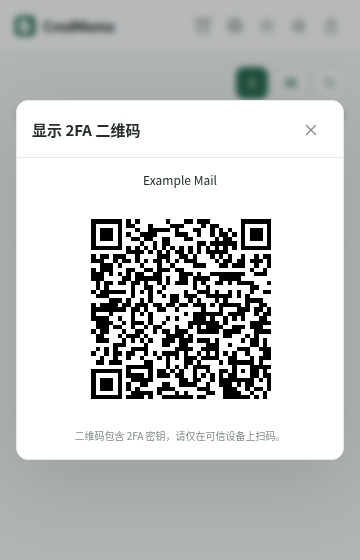
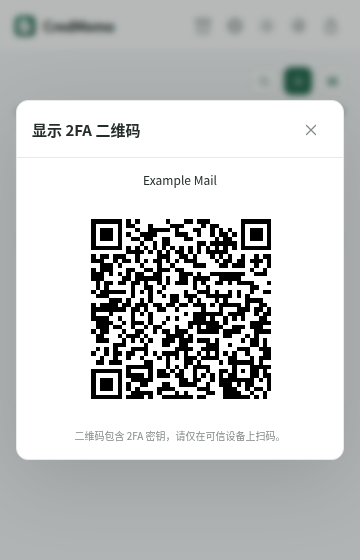
feat：合并搜索控件并精简验证码设置

Changed region(s): [[0.6417, 0.0911, 0.8861, 0.1821], [0.9167, 0.1214, 0.9472, 0.1518]]

diff --git a/extension/src/app.js b/extension/src/app.js
@@ -162,9 +162,9 @@ import { moveVisible } from './list-order.ts';
       <input type="hidden" data-field="label" value="${escape(item.label||'')}"></div>`;
   }
   function totpFields(item={},primary=false) {
-    const n=++itemSequence,type=item.type||'totp',event=counterBased(type),custom=event||(item.digits??6)!==6||(item.period??30)!==30||(item.algorithm??'SHA1')!=='SHA1';
-    return `<div class="form-item token-item${primary?' primary-item':''}">${primary?'':iconButton('close','remove-item','removeItem','','remove-item')}<div class="token-heading"><label class="field-label" for="token-secret-${n}">${escape(t('totpSecret'))}</label><select class="select token-type" data-field="type" aria-label="${escape(t('otpType'))}">${OTP_TYPES.map(value=>`<option value="${value}" ${type===value?'selected':''}>${escape(t('otp_'+value))}</option>`).join('')}</select>${iconButton('settings','token-options','advanced')}</div><div class="input-wrap"><input id="token-secret-${n}" data-field="secret" type="password" value="${escape(item.secret||'')}" maxlength="4096" autocomplete="off" placeholder="${escape(t(type==='hex'||type==='hhex'?'hexSecretPlaceholder':'totpSecretPlaceholder'))}">${iconButton('scan','scan-entry','scanSelection')}${iconButton('eye','toggle-password','showPassword',`data-target="token-secret-${n}"`)}</div>
-      <input type="hidden" data-field="label" value="${escape(item.label||'')}"><details class="advanced-options" ${custom?'':'hidden'} ${event?'open':''}><summary>${escape(t('advanced'))}</summary><div class="token-options"><label class="digits-option">${escape(t('digits'))}<input class="input" data-field="digits" type="number" required min="1" max="10" step="1" value="${item.digits??(type==='steam'?5:type==='battle'?8:6)}" ${['steam','battle'].includes(type)?'readonly':''}></label><label class="period-option" ${event?'hidden':''}>${escape(t('period'))}<input class="input" data-field="period" type="number" required ${event?'disabled':''} min="1" step="1" value="${item.period??30}"></label><label class="counter-option" ${event?'':'hidden'}>${escape(t('counter'))}<input class="input" data-field="counter" type="number" required ${event?'':'disabled'} min="0" max="9007199254740991" step="1" value="${item.counter??0}"></label><label>${escape(t('algorithm'))}<select class="select" data-field="algorithm">${OTP_ALGORITHMS.map(value=>`<option value="${value}" ${value===(item.algorithm||'SHA1')?'selected':''}>${value.replace('GOST3411_2012_','GOST ')}</option>`).join('')}</select></label></div></details></div>`;
+    const n=++itemSequence,type=item.type||'totp',event=counterBased(type);
+    return `<div class="form-item token-item${primary?' primary-item':''}">${primary?'':iconButton('close','remove-item','removeItem','','remove-item')}<div class="token-heading"><label class="field-label" for="token-secret-${n}">${escape(t('totpSecret'))}</label>${iconButton('settings','token-options','advanced',`aria-expanded="false" aria-controls="token-options-${n}"`)}</div><div class="input-wrap"><input id="token-secret-${n}" data-field="secret" type="password" value="${escape(item.secret||'')}" maxlength="4096" autocomplete="off" placeholder="${escape(t(type==='hex'||type==='hhex'?'hexSecretPlaceholder':'totpSecretPlaceholder'))}">${iconButton('scan','scan-entry','scanSelection')}${iconButton('eye','toggle-password','showPassword',`data-target="token-secret-${n}"`)}</div>
+      <input type="hidden" data-field="label" value="${escape(item.label||'')}"><div id="token-options-${n}" class="advanced-options" hidden><div class="token-type-field"><label for="token-type-${n}">${escape(t('otpType'))}</label><select id="token-type-${n}" class="select token-type" data-field="type">${OTP_TYPES.map(value=>`<option value="${value}" ${type===value?'selected':''}>${escape(t('otp_'+value))}</option>`).join('')}</select></div><div class="token-options"><label class="digits-option">${escape(t('digits'))}<input class="input" data-field="digits" type="number" required min="1" max="10" step="1" value="${item.digits??(type==='steam'?5:type==='battle'?8:6)}" ${['steam','battle'].includes(type)?'readonly':''}></label><label class="period-option" ${event?'hidden':''}>${escape(t('period'))}<input class="input" data-field="period" type="number" required ${event?'disabled':''} min="1" step="1" value="${item.period??30}"></label><label class="counter-option" ${event?'':'hidden'}>${escape(t('counter'))}<input class="input" data-field="counter" type="number" required ${event?'':'disabled'} min="0" max="9007199254740991" step="1" value="${item.counter??0}"></label><label>${escape(t('algorithm'))}<select class="select" data-field="algorithm">${OTP_ALGORITHMS.map(value=>`<option value="${value}" ${value===(item.algorithm||'SHA1')?'selected':''}>${value.replace('GOST3411_2012_','GOST ')}</option>`).join('')}</select></label></div></div></div>`;
   }
   async function editEntry(id,draft=null) {
     const entry=draft?{...draft.entry,version:draft.version}:id?await request('get',{id}):null;
@@ -245,7 +245,7 @@ import { moveVisible } from './list-order.ts';
     const {action,id,index='0'}=button.dataset;
     if(action==='search-toggle')return searchPanel($('#search-panel').hidden);
     if(action==='search-close')return searchPanel(false);
-    if(action==='token-options'){const details=$('.advanced-options',button.closest('.token-item'));details.hidden=false;details.open=!details.open;return;}
+    if(action==='token-options'){const panel=$('.advanced-options',button.closest('.token-item'));panel.hidden=!panel.hidden;button.setAttribute('aria-expanded',String(!panel.hidden));if(!panel.hidden){$('.token-type',panel).focus();panel.scrollIntoView({block:'nearest'});}return;}
     if(action==='advance'){const token=state.codes[id]?.[Number(index)];if(!token)return;button.disabled=true;try{await request('advance',{id,index:Number(index),counter:token.counter,version:state.entries.find(entry=>entry.id===id)?.version});await loadEntries();toast(t('counterAdvanced'));}catch(error){await loadEntries();throw error;}finally{if(button.isConnected)button.disabled=false;}return;}
     if(action==='scan-page'||action==='scan-entry'){
       const form=action==='scan-entry'?$('#entry-form'):null;
@@ -311,7 +311,7 @@ import { moveVisible } from './list-order.ts';
   });
   document.addEventListener('change',async event=>{
     const input=event.target;
-    if(input.matches('.token-type')){const row=input.closest('.token-item'),type=input.value,event=counterBased(type),digits=$('[data-field="digits"]',row);$('.period-option',row).hidden=event;$('.counter-option',row).hidden=!event;$('[data-field=period]',row).disabled=event;$('[data-field=counter]',row).disabled=!event;digits.readOnly=['steam','battle'].includes(type);if(type==='steam')digits.value=5;else if(type==='battle')digits.value=8;else if(digits.value==='5')digits.value=6;$('[data-field="secret"]',row).placeholder=t(['hex','hhex'].includes(type)?'hexSecretPlaceholder':'totpSecretPlaceholder');if(event){const details=$('.advanced-options',row);details.hidden=false;details.open=true;}return;}
+    if(input.matches('.token-type')){const row=input.closest('.token-item'),type=input.value,event=counterBased(type),digits=$('[data-field="digits"]',row);$('.period-option',row).hidden=event;$('.counter-option',row).hidden=!event;$('[data-field=period]',row).disabled=event;$('[data-field=counter]',row).disabled=!event;digits.readOnly=['steam','battle'].includes(type);if(type==='steam')digits.value=5;else if(type==='battle')digits.value=8;else if(digits.value==='5')digits.value=6;$('[data-field="secret"]',row).placeholder=t(['hex','hhex'].includes(type)?'hexSecretPlaceholder':'totpSecretPlaceholder');return;}
     if(input.id==='theme-select'){theme=input.value;localStorage.setItem('credmemo-theme',theme);applyTheme();return;}
     if(input.id==='language-select'){setLanguage(input.value);settings();return;}
     if(input.id==='import-file'){

diff --git a/extension/public/static/extension.css b/extension/public/static/extension.css
@@ -23,16 +23,18 @@ html[data-surface="popup"] .topbar-actions{gap:2px}
 html[data-surface="popup"] .topbar-actions .icon-button{min-width:29px}
 html[data-surface="popup"] .main-content{padding:14px;width:100%;flex:1;min-height:0;overflow-y:auto}
 html[data-surface="popup"] .page-heading{flex-wrap:nowrap;align-items:center;justify-content:flex-end;gap:8px;margin-bottom:10px}
-html[data-surface="popup"] .heading-actions{width:auto;display:flex;gap:7px}
-html[data-surface="popup"] .heading-actions .button{width:32px;height:32px;min-height:32px;padding:7px;border-radius:8px;flex:none;order:0}
-html[data-surface="popup"] .heading-actions svg{width:14px;height:14px}
+html[data-surface="popup"] .heading-actions{width:100%;display:flex;align-items:center;justify-content:flex-end;gap:6px}
+html[data-surface="popup"] .heading-actions .button{width:28px;height:28px;min-height:28px;padding:6px;border-radius:7px;flex:none;order:0}
+html[data-surface="popup"] .heading-actions svg{width:13px;height:13px}
 .utility-button{color:var(--green);background:var(--surface);border:1px solid var(--green-line)}
 .utility-button:hover{background:var(--green-wash)}
-html[data-surface="popup"] .search-box{padding:4px 8px 4px 10px;max-width:none;min-width:0;margin-bottom:10px;border-radius:8px}
-html[data-surface="popup"] .search-box .icon-button{width:25px;min-width:25px;height:25px}
-html[data-surface="popup"] .search-box .icon-button svg{width:14px;height:14px}
-.search-toggle[aria-expanded="true"]{background:var(--green-wash);border-color:var(--green)}
-.search-box:focus-within{border-color:var(--green)}
+html[data-surface="popup"] .search-control{display:flex;align-items:center;min-width:28px;height:28px;border-radius:7px}
+html[data-surface="popup"] .search-control:has(.search-box:not([hidden])){flex:1;min-width:0;background:var(--surface);box-shadow:inset 0 0 0 1px var(--green-line)}
+html[data-surface="popup"] .search-control:has(.search-box:not([hidden])):focus-within{box-shadow:inset 0 0 0 1px var(--green)}
+html[data-surface="popup"] .search-toggle[aria-expanded="true"]{border:0;background:transparent;border-radius:7px 0 0 7px}
+html[data-surface="popup"] .search-box{flex:1;height:28px;padding:0 3px 0 0;max-width:none;min-width:0;margin:0;gap:4px;border:0;border-radius:0;background:transparent}
+html[data-surface="popup"] .search-box .icon-button{width:22px;min-width:22px;height:22px}
+html[data-surface="popup"] .search-box .icon-button svg{width:12px;height:12px}
 html[data-surface="popup"] .search-box input{font-size:11px;flex:1}
 html[data-surface="popup"] .results-line{margin:0 0 10px;font-size:9px;gap:8px}
 html[data-surface="popup"] .results-line>[data-i18n]{font-size:9px}
@@ -136,9 +138,14 @@ html[data-surface="popup"] .entry-card-top>.drag-handle{min-width:16px;width:16p
 .entry-card.drag-over{outline:2px solid var(--green);outline-offset:2px}
 .token-heading{display:flex;align-items:center;gap:5px;margin-bottom:1px}
 html[data-surface="popup"] .token-heading .field-label{margin:0;flex:1}
-html[data-surface="popup"] .token-heading .token-type{min-height:20px;max-width:145px;padding:1px 20px 1px 5px;font-size:10px}
 html[data-surface="popup"] .token-heading .icon-button{min-width:22px;height:20px}
-.token-options label{min-width:65px}
+html[data-surface="popup"] .editor .advanced-options{margin-top:7px;padding:8px 9px;border:1px solid var(--border);border-radius:7px;background:var(--bg)}
+.token-type-field{display:flex;align-items:center;justify-content:space-between;gap:8px}
+.token-type-field label{font-size:10px;color:var(--muted)}
+html[data-surface="popup"] .token-type{min-height:30px;max-width:155px;font-size:11px}
+html[data-surface="popup"] .token-options{display:grid;grid-template-columns:repeat(2,minmax(0,1fr));gap:8px;margin-top:8px}
+.token-options label{min-width:0}
+html[data-surface="popup"] .token-options .select{width:100%}
 html[data-surface="popup"] .token-options .input{margin-top:4px;padding:5px 7px;min-height:30px}
 html[data-surface="popup"] .totp-code{min-width:0;overflow-wrap:anywhere}
 html[data-surface="popup"] .totp-block[data-long-code="true"] .totp-code{font-size:17px;letter-spacing:.5px;white-space:normal}

diff --git a/extension/popup.html b/extension/popup.html
@@ -41,9 +41,8 @@
         </div>
       </header>
       <main class="main-content">
-        <div class="page-heading"><div class="heading-actions"><button class="button primary" data-action="new" data-i18n-aria="addCredential"><svg><use href="/static/icons.svg#plus"/></svg></button><button class="button utility-button" data-action="scan-page" data-i18n-aria="scanSelection"><svg><use href="/static/icons.svg#scan"/></svg></button><button class="button utility-button search-toggle" data-action="search-toggle" data-i18n-aria="searchAction" aria-expanded="false" aria-controls="search-panel"><svg><use href="/static/icons.svg#search"/></svg></button></div></div>
+        <div class="page-heading"><div class="heading-actions"><div class="search-control"><button class="button utility-button search-toggle" data-action="search-toggle" data-i18n-aria="searchAction" aria-expanded="false" aria-controls="search-panel"><svg><use href="/static/icons.svg#search"/></svg></button><div id="search-panel" class="search-box" hidden><input id="search" data-i18n-placeholder="search" data-i18n-aria="searchAction" type="search" autocomplete="off"><button class="icon-button" data-action="search-close" data-i18n-aria="closeSearch"><svg><use href="/static/icons.svg#close"/></svg></button></div></div><button class="button primary" data-action="new" data-i18n-aria="addCredential"><svg><use href="/static/icons.svg#plus"/></svg></button><button class="button utility-button" data-action="scan-page" data-i18n-aria="scanSelection"><svg><use href="/static/icons.svg#scan"/></svg></button></div></div>
         <section class="vault-section">
-          <div id="search-panel" class="search-box" hidden><svg><use href="/static/icons.svg#search"/></svg><input id="search" data-i18n-placeholder="search" data-i18n-aria="searchAction" type="search" autocomplete="off"><button class="icon-button" data-action="search-close" data-i18n-aria="closeSearch"><svg><use href="/static/icons.svg#close"/></svg></button></div>
           <div class="results-line"><span id="results-count"></span><span class="muted" data-i18n="codesRefresh">动态码随时间自动刷新</span></div>
           <div id="entries" class="entries-grid" aria-live="polite"></div><div id="empty-state" class="empty-state" hidden></div>
         </section>

diff --git a/extension/public/static/style.css b/extension/public/static/style.css
@@ -266,7 +266,6 @@ to{opacity:1;transform:translateY(0)}
 .token-options{display:flex;gap:10px;margin-top:10px}
 .token-options label{font-size:10px;color:var(--muted);flex:1}
 .token-options select{margin-top:4px;font-size:11px;min-height:34px;padding:5px 8px}
-.advanced-options summary{font-size:10px;color:var(--muted);cursor:pointer;margin-top:10px}
 .drawer-overlay{padding:0;justify-content:flex-end}
 .drawer{width:450px;max-width:100%;height:100dvh;background:var(--surface);box-shadow:-10px 0 40px #0001;display:flex;flex-direction:column}
 .drawer-header{padding:25px;border-bottom:1px solid var(--border);display:flex;align-items:center;gap:12px}

diff --git a/tests/extension/ui_acceptance.py b/tests/extension/ui_acceptance.py
@@ -1,4 +1,4 @@
-"""搜索入口与导入备份布局验收，使用临时配置及随机凭证。"""
+"""一体搜索、精简表单及导入备份布局验收，使用临时配置及随机凭证。"""
 import json
 import tempfile
 import uuid
@@ -42,9 +42,18 @@ def run():
         expect(page.locator('#page-title,[data-action=site-filter]')).to_have_count(0)
         expect(page.locator('#search-panel')).to_be_hidden()
         buttons = page.locator('.heading-actions .button').evaluate_all('items=>items.map(node=>({width:node.offsetWidth,height:node.offsetHeight,label:node.getAttribute("aria-label")}))')
-        assert len(buttons) == 3 and all(item['width'] == 32 and item['height'] == 32 and item['label'] for item in buttons)
+        assert len(buttons) == 3 and all(item['width'] == 28 and item['height'] == 28 and item['label'] for item in buttons)
+        assert page.locator('.heading-actions .button').evaluate_all('items=>items.map(node=>node.dataset.action)') == ['search-toggle', 'new', 'scan-page']
+        row_top = page.locator('.heading-actions').bounding_box()['y']
         page.locator('[data-action=search-toggle]').click()
         expect(page.locator('#search')).to_be_focused()
+        assert page.locator('#search-panel').bounding_box()['y'] == row_top
+        assert page.locator('.heading-actions').bounding_box()['height'] == 28
+        assert page.locator('#search-panel').evaluate('node=>node.clientWidth>=200&&node.scrollWidth<=node.clientWidth')
+        assert page.locator('[data-action=search-toggle]').evaluate('node=>node.closest(".search-control")===document.querySelector("#search-panel").parentElement&&getComputedStyle(node).borderLeftWidth==="0px"')
+        toggle = page.locator('[data-action=search-toggle]').bounding_box()
+        assert toggle['x'] + toggle['width'] == page.locator('#search-panel').bounding_box()['x']
+        page.screenshot(path=str(OUT / 'inline-search.png'), animations='disabled')
         page.locator('#search').fill('MAIL@')
         expect(page.locator('.entry-card')).to_have_count(1)
         page.keyboard.press('Escape')
@@ -56,6 +65,9 @@ def run():
         page.locator('[data-action=search-close]').click()
         page.screenshot(path=str(OUT / 'compact-list.png'), animations='disabled')
         page.locator('[data-action=new]').first.click()
+        expect(page.locator('.token-type')).to_be_hidden()
+        expect(page.locator('.token-heading select')).to_have_count(0)
+        expect(page.locator('.token-type')).to_have_value('totp')
         page.screenshot(path=str(OUT / 'new-credential.png'), animations='disabled')
         page.locator('#modal-root [data-action=close-modal]').first.focus()
         page.keyboard.press('/')
@@ -66,7 +78,7 @@ def run():
         page.wait_for_function('()=>{const canvas=document.querySelector("#totp-qr");return canvas&&canvas.width>=200&&canvas.width<=216}')
         page.screenshot(path=str(OUT / 'binding-qr.png'), animations='disabled')
         page.locator('#modal-root [data-action=close-modal]').click()
-        print('PASS: three equal icon buttons; search expands, matches without case sensitivity, clears on close and respects modal focus', flush=True)
+        print('PASS: three compact icons; integrated search expands within the same row; 2FA type stays behind its settings button', flush=True)
 
         def transfer(tab):
             page.locator('.topbar [data-action=transfer]').click()
@@ -87,6 +99,23 @@ def run():
                 if page.locator('html').get_attribute('data-theme') != theme:
                     page.locator('.topbar [data-action=theme]').click()
                 expect(page.locator('#toast-root')).to_be_empty()
+                page.locator('[data-action=search-toggle]').click()
+                assert page.locator('.heading-actions').evaluate('node=>node.scrollWidth<=node.clientWidth&&node.offsetHeight===28')
+                page.screenshot(path=str(OUT / f'inline-search-{language}-{theme}.png'), animations='disabled')
+                page.locator('[data-action=search-close]').click()
+                page.locator('[data-action=new]').first.click()
+                expect(page.locator('.token-type')).to_be_hidden()
+                assert page.locator('.modal-body').evaluate('node=>node.scrollHeight<=node.clientHeight+1&&node.scrollWidth<=node.clientWidth')
+                page.locator('[data-action=token-options]').click()
+                expect(page.locator('.token-type')).to_be_focused()
+                expect(page.locator('[data-action=token-options]')).to_have_attribute('aria-expanded', 'true')
+                assert page.locator('.advanced-options').evaluate('node=>node.scrollWidth<=node.clientWidth')
+                assert page.locator('.advanced-options').evaluate('node=>{const panel=node.getBoundingClientRect(),body=node.closest(".modal-body").getBoundingClientRect();return panel.top>=body.top-1&&panel.bottom<=body.bottom+1}')
+                page.screenshot(path=str(OUT / f'token-settings-{language}-{theme}.png'), animations='disabled')
+                page.locator('[data-action=token-options]').click()
+                expect(page.locator('.token-type')).to_be_hidden()
+                expect(page.locator('[data-action=token-options]')).to_have_attribute('aria-expanded', 'false')
+                page.locator('#modal-root .modal-header [data-action=close-modal]').click()
                 for tab in ['backup', 'import', 'export']:
                     transfer(tab)
                     layout()

diff --git a/tests/extension/otp_list_acceptance.py b/tests/extension/otp_list_acceptance.py
@@ -46,7 +46,11 @@ def run():
             client.locator('#entry-title').fill(kind.upper() + ' fixture')
             if kind in ['totp', 'hotp']:
                 client.locator('#entry-url').fill('https://login.example.test')
-            client.locator('.token-type').select_option(kind)
+            expect(client.locator('.token-type')).to_be_hidden()
+            expect(client.locator('.token-heading select')).to_have_count(0)
+            if kind != 'totp':
+                client.locator('[data-action=token-options]').click()
+                client.locator('.token-type').select_option(kind)
             client.locator('.token-item [data-field=secret]').fill(PUBLIC_HEX if kind in ['hex', 'hhex'] else PUBLIC_SECRET)
             assert client.locator('.token-type option').count() == 6
             if kind == 'totp':
@@ -57,7 +61,6 @@ def run():
                 expect(client.locator('.counter-option')).to_be_visible()
                 expect(client.locator('.period-option')).to_be_hidden()
             if kind == 'hex':
-                client.locator('[data-action=token-options]').click()
                 client.locator('[data-field=algorithm]').select_option('GOST3411_2012_512')
                 client.locator('[data-field=period]').fill('45')
                 client.locator('[data-field=digits]').fill('10')
@@ -74,6 +77,20 @@ def run():
         expect(hotp.locator('.totp-code')).to_have_text('287 082')
         assert request('get', {'id': ids['hotp']})['totps'][0]['counter'] == 1
         print('PASS: all six OTP types can be created; GOST and extended parameters save; HOTP advances explicitly', flush=True)
+
+        for kind, entry_id in ids.items():
+            saved = request('get', {'id': entry_id})
+            client.locator(f'[data-entry="{entry_id}"] [data-action=edit]').click()
+            expect(client.locator('.token-type')).to_be_hidden()
+            expect(client.locator('.token-type')).to_have_value(kind)
+            client.locator('[data-action=token-options]').click()
+            expect(client.locator('.token-type')).to_have_value(kind)
+            client.locator('[data-action=token-options]').click()
+            client.locator('#entry-notes').fill('Preserve the selected verification code settings')
+            client.locator('button[form=entry-form]').click()
+            expect(client.locator('#entry-form')).to_have_count(0)
+            assert request('get', {'id': entry_id})['totps'] == saved['totps']
+        print('PASS: settings collapse without resetting any of the six types, parameters or HOTP counters during editing', flush=True)
 
         for title, url, label in [('工作 Example', '', ''), ('Label match', '', 'Example:secondary'), ('Example wrong site', 'https://unrelated.test', '')]:
             request('save', {'entry': {'title': title, 'url': url, 'logins': [], 'totps': [{'secret': PUBLIC_SECRET, 'label': label}]}})
@@ -143,7 +160,7 @@ def run():
         source = client.locator(f'[data-entry="{before[0]}"] .drag-handle')
         target = client.locator(f'[data-entry="{before[1]}"]')
         source.drag_to(target)
-        client.wait_for_function('document.querySelector("#toast-root").textContent.includes("顺序已保存")')
+        client.wait_for_function('()=>document.querySelector("#toast-root").textContent.includes("顺序已保存")')
         after = [entry['id'] for entry in request('list')['entries']]
         assert after[:2] == before[1::-1] and after[2:] == before[2:]
         client.screenshot(path=str(screenshots / 'otp-list-all.png'))

diff --git a/tests/extension/page_scan_acceptance.py b/tests/extension/page_scan_acceptance.py
@@ -154,6 +154,7 @@ def run():
         assert values(view)==fields
         assert view.evaluate('document.querySelector(".token-item [data-field=secret]").value')==PUBLIC_SECRET
         assert view.evaluate('Object.fromEntries([...document.querySelectorAll(".token-item [data-field]")].filter(node=>["type","digits","period","algorithm"].includes(node.dataset.field)).map(node=>[node.dataset.field,node.value]))')=={'type':'totp','digits':'8','period':'60','algorithm':'SHA256'}
+        assert view.evaluate('document.querySelector(".advanced-options").hidden&&!document.querySelector(".token-heading select")')
         assert len(request('list')['entries'])==1
         view.evaluate('document.querySelector("button[form=entry-form]").click()')
         view.wait('!document.querySelector("#entry-form")')

diff --git a/release-notes/v2.11.1.md b/release-notes/v2.11.1.md
@@ -1,0 +1,10 @@
+## 更新说明
+
+- 搜索移到新建、扫码之前，图标与输入框合为一个控件，展开后使用同一行的空白区域，不增加列表上方的行数。
+- 三个操作按钮缩小为 28 × 28，统一图标尺寸、圆角和间距。
+- 新建凭证隐藏外部 2FA 类型下拉，将类型、算法、位数、周期和计数移入齿轮设置。
+- 手动添加默认使用 TOTP，保留明确 HEX 密钥识别；扫码读取二维码内的配置，编辑时保留原有类型和参数，六种验证码类型继续可用。
+
+已通过 44 项核心测试和 8 组浏览器验收，覆盖中英文、浅深主题、六种类型的创建与编辑、搜索排序、扫码回填、备份恢复、网站填充、无痕窗口及原目录覆盖升级。浏览器验收在 Linux Chromium 上完成，Windows、macOS 尚未实测。
+
+ZIP 解压目录保持为 `CredMemo`，覆盖原安装目录并重新加载即可更新。
